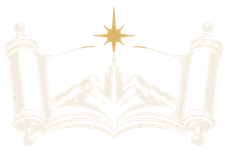
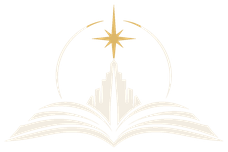
Header mark: the open book with the spire, star and arc, paper on navy
User, 2026-09-11 evening: the bar should not repeat the scroll-book that
sits directly below it on the landing page. The top-left mark is now the
open-book drawing (icons/sefer-mormon-book.svg), reversed like the scroll
was — paper drawing, gold star, on the bar's own navy. The scroll-book
stays for the landing page, the favicon, the web-app icons and the iOS
icon. Website only in intent; the app's bundled site shares the bar code.

diff --git a/site_chrome.js b/site_chrome.js
@@ -189,14 +189,14 @@
     a.setAttribute('aria-label', reader ? 'Home \u2014 Standard Works' : 'Open books and navigation');
     a.title = reader ? 'Home' : 'Books and navigation';
     a.style.cssText = 'background:none;border:none;padding:0;cursor:pointer';
-    /* THE MARK IN THE NAVY BAR IS THE LOGO: the engraved scroll-book (two
-       scrolls opening into one book), reversed — paper drawing, gold star, on
-       transparent so the bar's own navy is its ground (user, 2026-09-11: "make
-       it the logo for the blue"). The file is 3:2 (228x152) with the drawing
-       filling it; the slot is a 44px-minimum auto column, so 60x40 fits without
-       squashing. Rendered from the traced drawing by the logo build, not drawn
-       by hand. */
-    a.innerHTML = '<img src="' + assetBase() + 'icons/sw-mark.png?v=4" alt="" style="width:60px;height:40px;display:block">';
+    /* THE MARK IN THE NAVY BAR: the open book with the spire, star and arc
+       (icons/sefer-mormon-book.svg), reversed — paper drawing, gold star, on
+       transparent so the bar's own navy is its ground. User, 2026-09-11: the
+       bar should not repeat the scroll-book that sits right below it on the
+       landing page; the scroll-book stays for the landing, the favicon and
+       the app icons. The file is 3:2 (228x152); the slot is a 44px-minimum
+       auto column, so 60x40 fits without squashing. */
+    a.innerHTML = '<img src="' + assetBase() + 'icons/sw-mark.png?v=5" alt="" style="width:60px;height:40px;display:block">';
     if (!reader) a.addEventListener('click', openMenu);
     return a;
   }

diff --git a/bom/sw.js b/bom/sw.js
@@ -4,7 +4,7 @@
     the hook did not touch it (it pointed at scripts/write_build_version.js,
     which does not exist), so the list below had been frozen for days and
     every Book of Mormon asset change was served stale. Never hand-edit. */
-const CACHE = 'bom-2026-09-11T23-39-03';
+const CACHE = 'bom-2026-09-11T23-54-03';
 /** Shell only — verse *.js files are cached at runtime, refreshed in the background (see fetch handler). */
 const ASSETS = [
   './bom.html',

diff --git a/service-worker.js b/service-worker.js
@@ -1,5 +1,5 @@
 /** Replaced on deploy by scripts/write_build_version.js (GITHUB_SHA). */
-const BUILD_ID = '2026-09-11T23-39-03';
+const BUILD_ID = '2026-09-11T23-54-03';
 const CACHE_NAME = 'standard-works-' + BUILD_ID;
 const OFFLINE_CACHE = 'standard-works-offline-v2';
 
